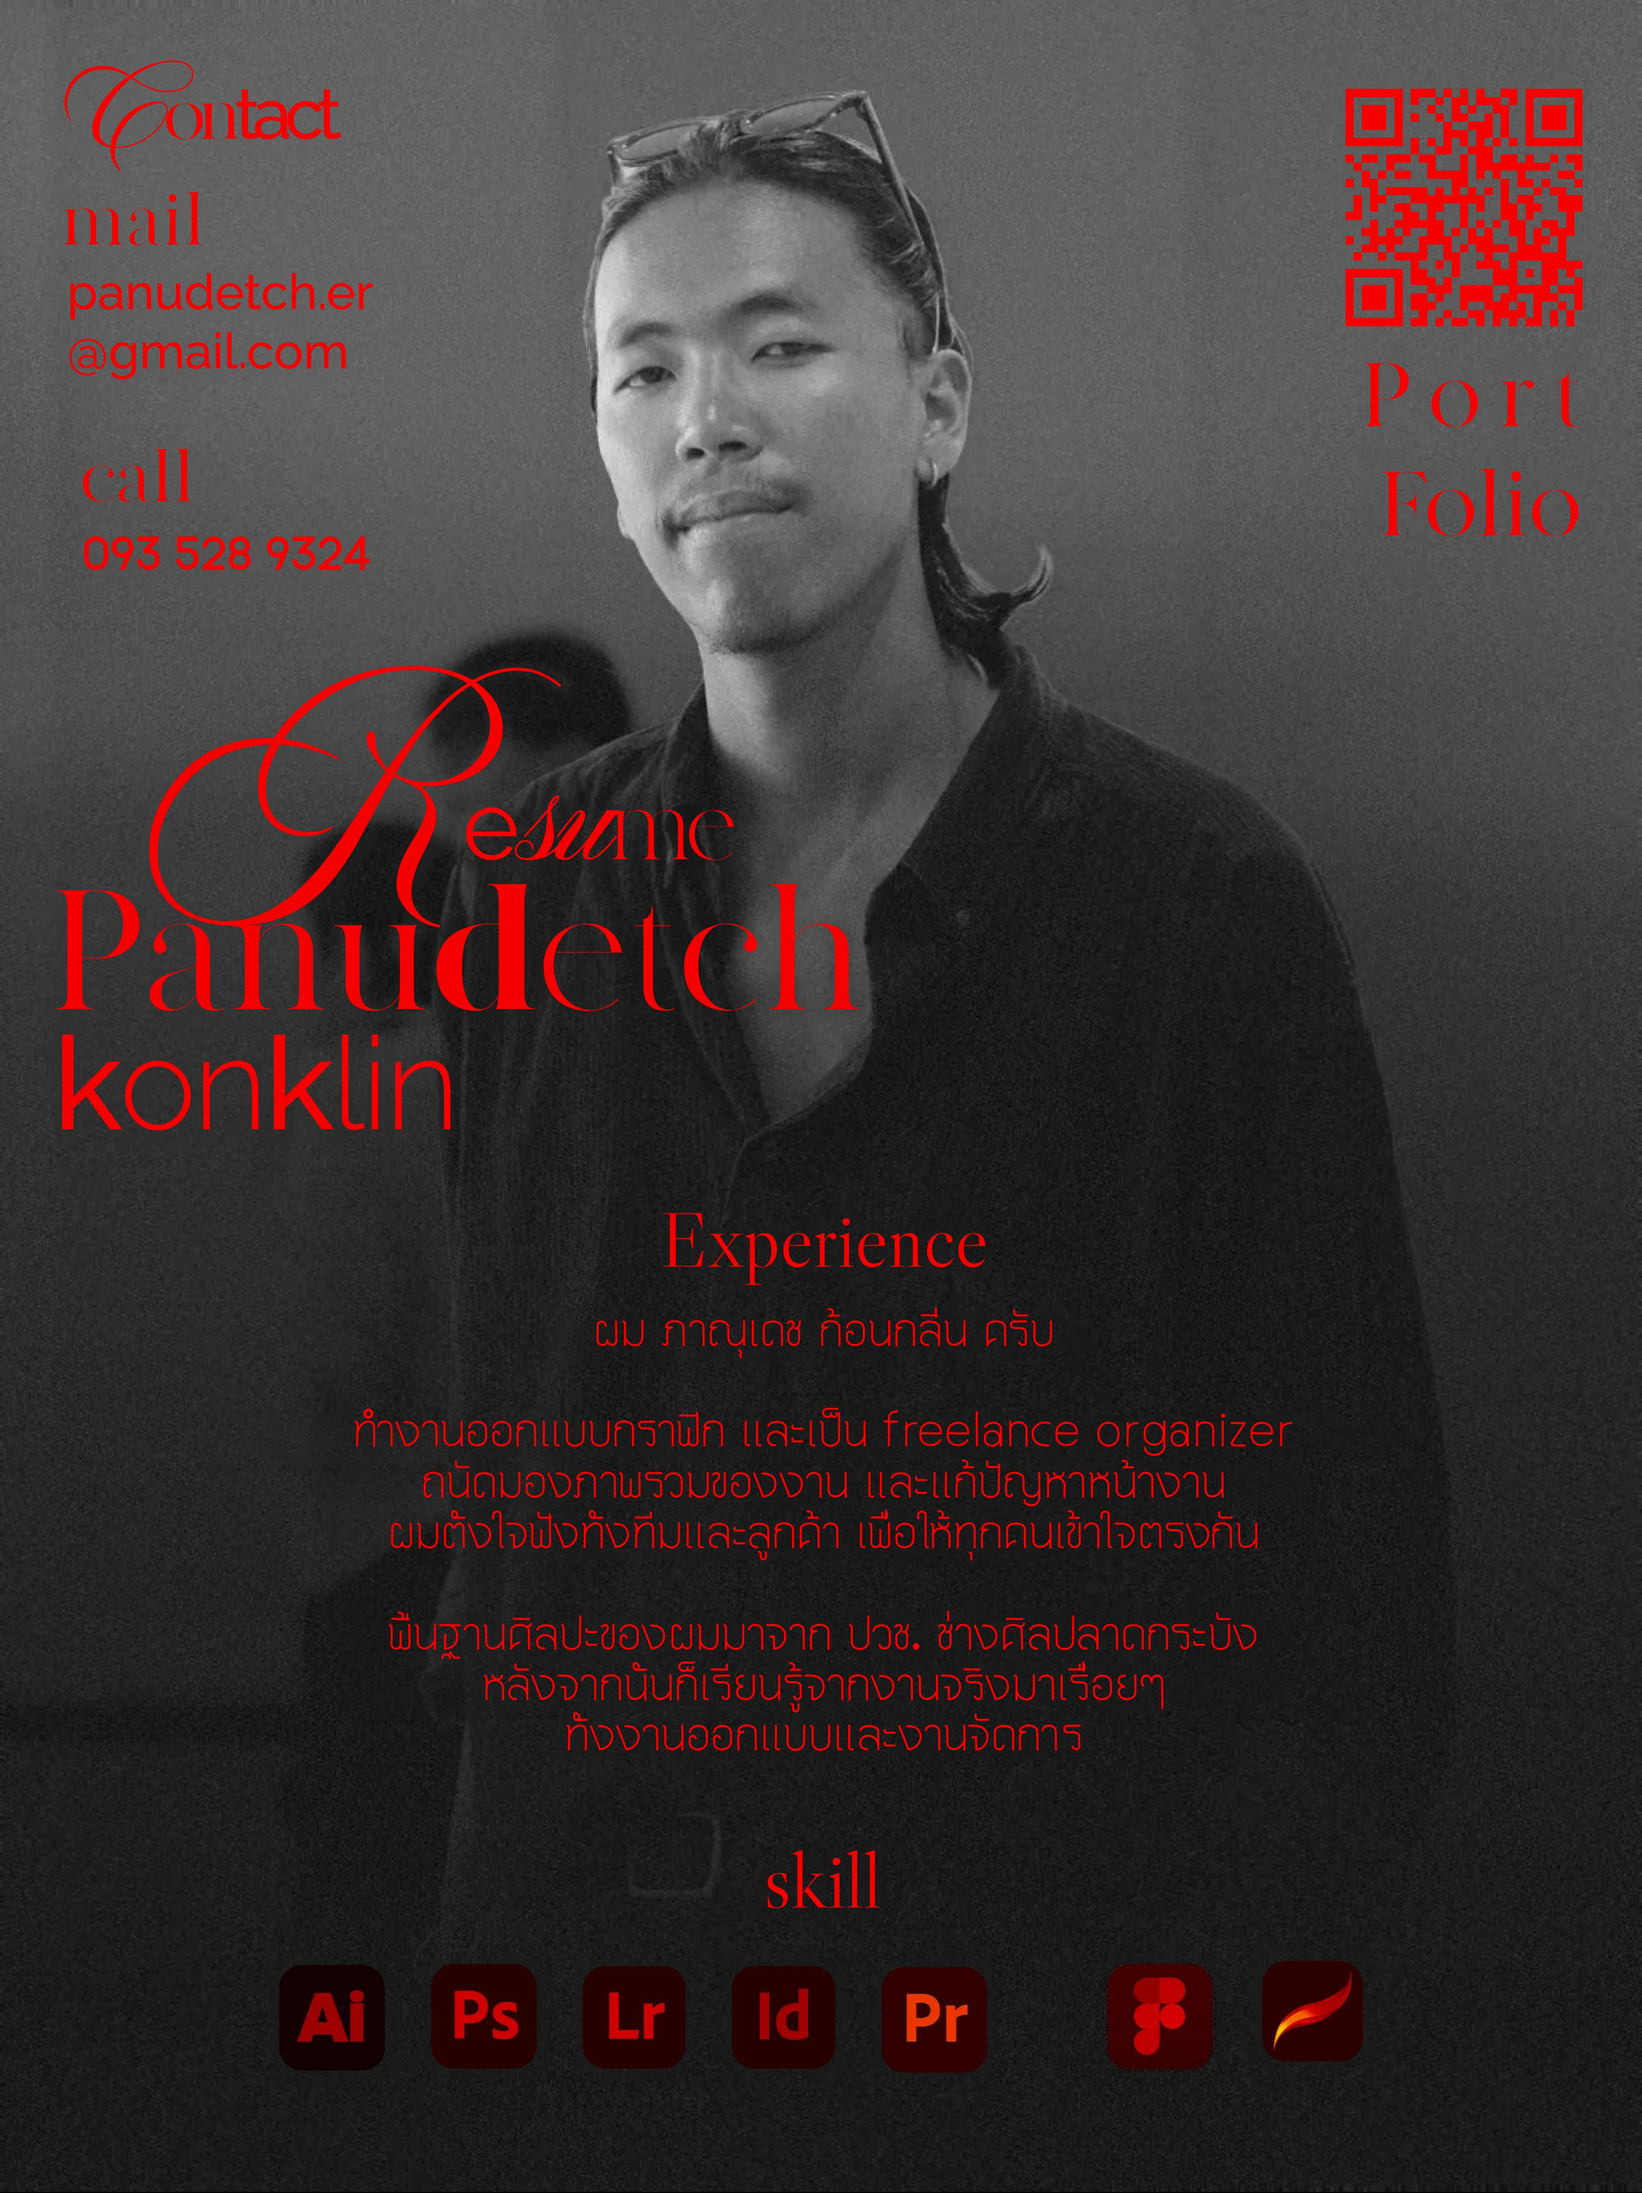
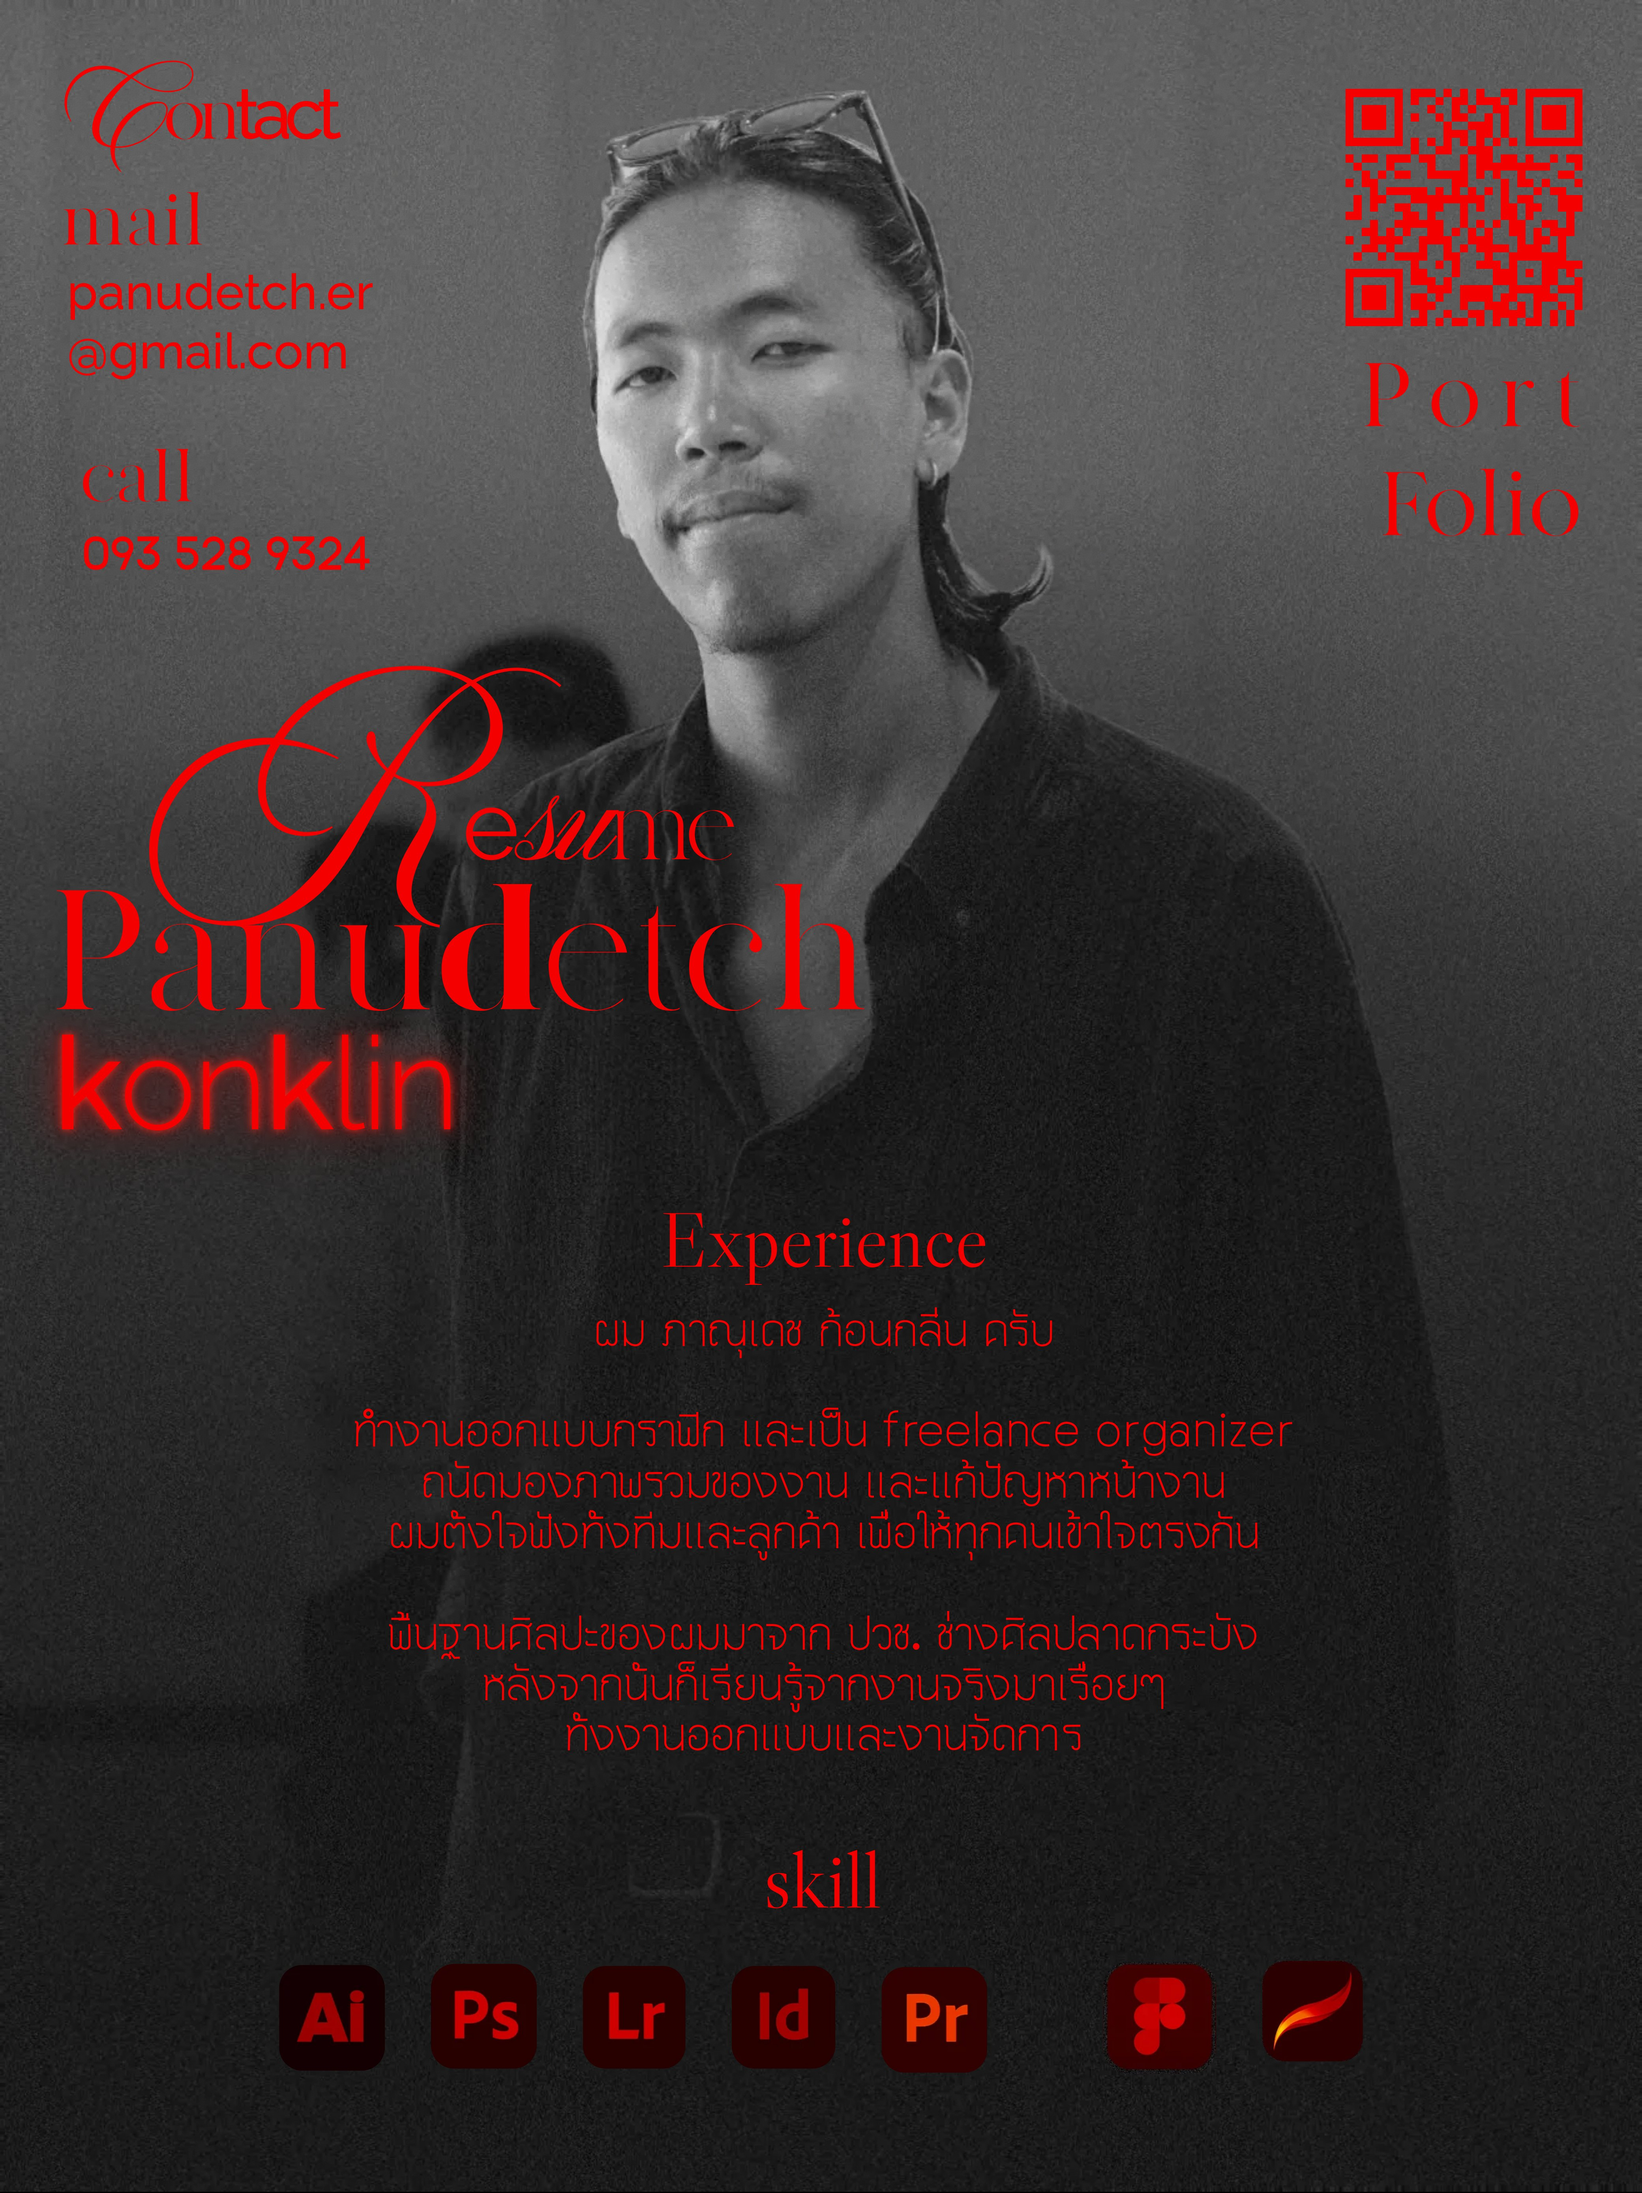
Neon signal flicker on resume surname
Claude-Session: https://claude.ai/code/session_011Sgp1TP5BCiT2Xw1Qtdy72

Changed region(s): [[0.0312, 0.4049, 0.5312, 0.5295]]

diff --git a/index.html b/index.html
@@ -935,6 +935,11 @@ body{margin:0}
 .cvp-pan .l{font-family:'cv-made-l',serif}
 .cvp-kon{font-family:'cv-raleway',sans-serif;font-weight:300;letter-spacing:-.025em}
 .cvp-kon b{font-weight:500}
+/* Signal Type (React Bits Pro, rebuilt in vanilla JS): konklin flickers on like a neon sign */
+.cvp-kon .sg{display:inline-block;text-shadow:0 0 .06em rgba(255,40,30,.9),0 0 .22em rgba(245,0,0,.55),0 0 .6em rgba(245,0,0,.3)}
+.cvr .cvp-kon{opacity:1!important;filter:none!important;translate:none!important}
+.cvr .cvp-kon .sg{opacity:.06;text-shadow:none}
+.cvr.lit .cvp-kon .sg{opacity:1;text-shadow:0 0 .06em rgba(255,40,30,.9),0 0 .22em rgba(245,0,0,.55),0 0 .6em rgba(245,0,0,.3)}
 .cvp-exp,.cvp-skill{font-family:'cv-caslon',serif}
 .cvp-txt{font-family:'cv-torsilp',sans-serif;text-align:center;line-height:1.1;letter-spacing:.025em;transform:translateX(-50%)}
 .cvp-qr{position:absolute;display:block;color:var(--cv-red)}
@@ -1076,7 +1081,7 @@ body{margin:0}
 <a class="cvp-el cvp-port" data-k="port" data-cv-works href="#p2" style="right:3.750cqw;top:20.918cqw;font-size:5.473cqw">P o r t<br>Folio</a>
 <h2 class="cvp-el cvp-res" data-k="res" style="left:9.135cqw;top:43.317cqw;font-size:5.930cqw"><span class="as R">R</span><span class="rw">e </span><span class="as">su</span><span class="ml">me</span><span class="sr"> Resume</span></h2>
 <p class="cvp-el cvp-pan" data-k="pan" style="left:2.933cqw;top:53.009cqw;font-size:10.342cqw" aria-label="Panudetch"><span>P</span><span>a</span><span>n</span><span>u</span><span class="b">d</span><span class="l">e</span><span class="l">t</span><span>c</span><span>h</span></p>
-<p class="cvp-el cvp-kon" data-k="kon" style="left:3.221cqw;top:62.078cqw;font-size:7.897cqw"><b>k</b>on<b>k</b>lin</p>
+<p class="cvp-el cvp-kon" data-k="kon" style="left:3.221cqw;top:62.078cqw;font-size:7.897cqw"><span class="sg"><b>k</b></span><span class="sg">o</span><span class="sg">n</span><span class="sg"><b>k</b></span><span class="sg">l</span><span class="sg">i</span><span class="sg">n</span></p>
 <h3 class="cvp-el cvp-exp" data-k="exp" style="left:40.216cqw;top:73.132cqw;font-size:4.722cqw">Experience</h3>
 <p class="cvp-el cvp-txt" data-k="txt" style="left:50.120cqw;top:79.424cqw;font-size:2.802cqw">ผม ภาณุเดช ก้อนกลิ่น ครับ<br><br>ทำงานออกแบบกราฟิก และเป็น freelance organizer<br>ถนัดมองภาพรวมของงาน และแก้ปัญหาหน้างาน<br>ผมตั้งใจฟังทั้งทีมและลูกค้า เพื่อให้ทุกคนเข้าใจตรงกัน<br><br>พื้นฐานศิลปะของผมมาจาก ปวช. ช่างศิลปลาดกระบัง<br>หลังจากนั้นก็เรียนรู้จากงานจริงมาเรื่อยๆ<br>ทั้งงานออกแบบและงานจัดการ</p>
 <h3 class="cvp-el cvp-skill" data-k="skill" style="left:46.514cqw;top:112.075cqw;font-size:4.849cqw">skill</h3>
@@ -1389,6 +1394,7 @@ function buildResume() {
     setTimeout(() => $('#p2').scrollIntoView({ behavior: matchMedia('(prefers-reduced-motion: reduce)').matches ? 'auto' : 'smooth' }), 450);
   }));
   const still = matchMedia('(prefers-reduced-motion: reduce)').matches;
+  if (still) L.classList.add('lit');
   if (!still) {
     // photo drifts a little with the pointer, only while the pointer is on the page
     const ph = $('.cvp-photo', card);
@@ -1398,6 +1404,21 @@ function buildResume() {
       ph.style.transform = `translate(${(-x * 1.4).toFixed(2)}%, ${(-y * 1.0).toFixed(2)}%) scale(1.03)`;
     });
     card.addEventListener('pointerleave', () => { ph.style.transform = ''; });
+    // konklin: Signal Type. Each letter buzzes on at its own moment, then holds with a neon glow.
+    // Plays when the page opens and again when the pointer comes onto the word.
+    const kon = $('.cvp-kon', card), sgs = $$('.sg', kon);
+    const GLOW = '0 0 .06em rgba(255,40,30,.9),0 0 .22em rgba(245,0,0,.55),0 0 .6em rgba(245,0,0,.3)';
+    const signal = (start = 0) => {
+      sgs.forEach(g => {
+        g.getAnimations().forEach(a => a.cancel());
+        const o = [.06, .9, .1, .55, .08, 1, .35, 1], t = [0, .14, .2, .34, .42, .58, .7, 1];
+        g.animate(o.map((v, k) => ({ opacity: v, textShadow: v > .5 ? GLOW : 'none', offset: t[k], easing: 'steps(1, end)' })),
+          { duration: 1100 + Math.random() * 900, delay: start + Math.random() * 900, fill: 'backwards' });
+      });
+    };
+    new MutationObserver(() => { if (L.classList.contains('on') && !L.classList.contains('lit')) { L.classList.add('lit'); signal(700); } if (!L.classList.contains('on')) L.classList.remove('lit'); })
+      .observe(L, { attributes: true, attributeFilter: ['class'] });
+    kon.addEventListener('pointerenter', () => signal(0));
     // name: letters near the pointer turn heavier, like the pressure type on the cover.
     // Each letter steps one weight at a time (light, regular, black) so the change rolls in slowly.
     const pan = $('.cvp-pan', card), ls = [...pan.children];
